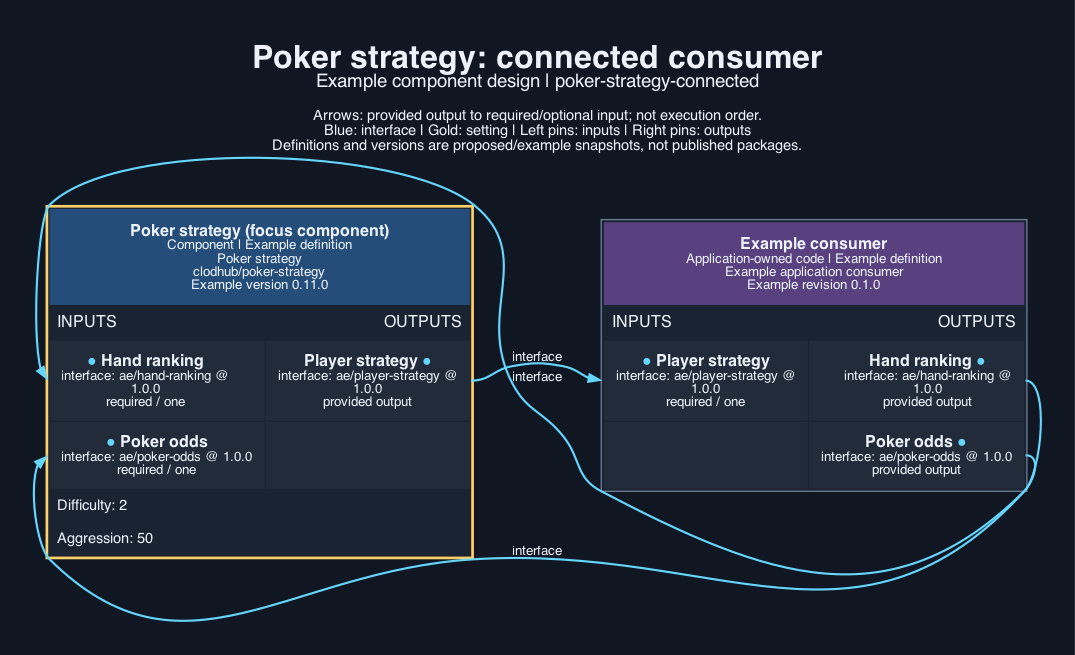
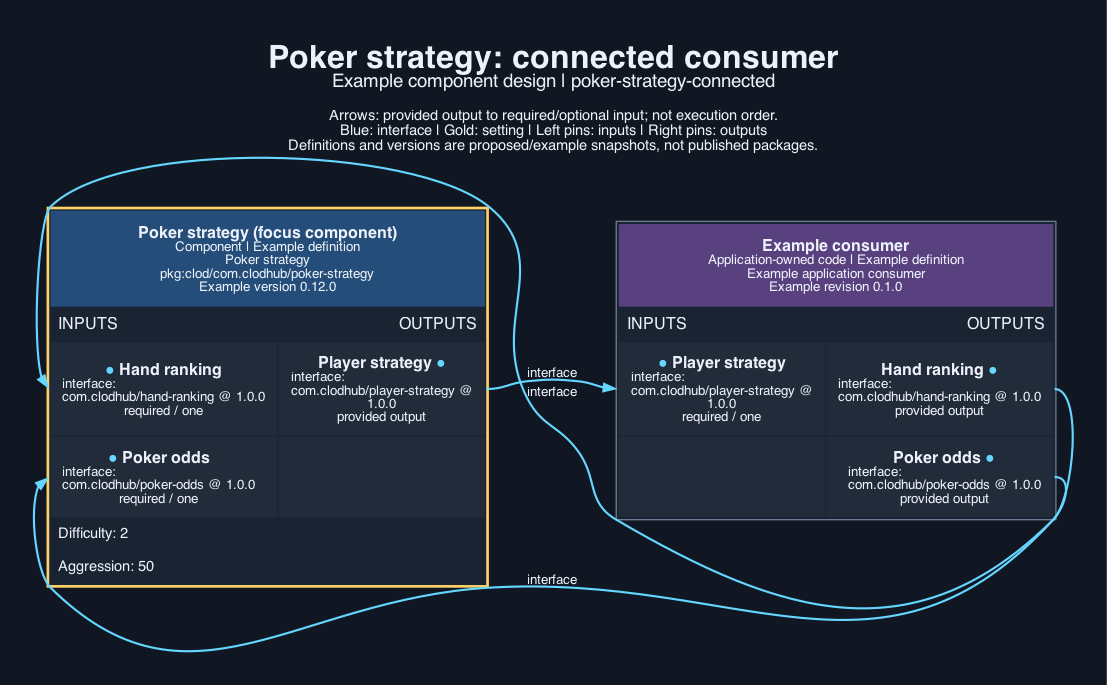
poker-strategy 0.12.0: package URL names, clod, com.clodhub interface types

diff --git a/tests/support/poker-odds/types.ts b/tests/support/poker-odds/types.ts
@@ -1,4 +1,4 @@
-// The part of the hand-ranking and card-deck interfaces that odds reads (ae/hand-ranking 1.0.0).
+// The part of the hand-ranking and card-deck interfaces that odds reads (com.clodhub/hand-ranking 1.0.0).
 export type Card = string;
 
 export type Evaluation = { score: number; category: string; ranks: number[]; name: string };

diff --git a/implementation/server/types.ts b/implementation/server/types.ts
@@ -1,4 +1,4 @@
-// The part of the poker-odds interface that strategy reads (ae/poker-odds 1.0.0).
+// The part of the poker-odds interface that strategy reads (com.clodhub/poker-odds 1.0.0).
 export type Card = string;
 
 export type OddsLike = {

diff --git a/INSTRUCTIONS.md b/INSTRUCTIONS.md
@@ -3,13 +3,13 @@
 ## For the agent
 Select this component when the recipe includes computer players. Connect its hand-ranking and poker-odds inputs, and connect its player-strategy output to computer-players. Map the recipe's 'computer players' difficulty answer to `difficulty` and a general 'how bold' answer to `aggression`.
 
-- Select package `clodhub/poker-strategy` version `0.11.0`.
+- Select package `pkg:clod/com.clodhub/poker-strategy` version `0.12.0`.
 - Settings to configure:
   - `difficulty` (integer; optional; default `2`)
   - `aggression` (integer; optional; default `50`)
-- Connect the provided `player-strategy` (ae/player-strategy 1.0.0) to the consumer that needs it.
-- Supply `hand-ranking` (ae/hand-ranking 1.0.0) from the component that provides it.
-- Supply `poker-odds` (ae/poker-odds 1.0.0) from the component that provides it.
+- Connect the provided `player-strategy` (com.clodhub/player-strategy 1.0.0) to the consumer that needs it.
+- Supply `hand-ranking` (com.clodhub/hand-ranking 1.0.0) from the component that provides it.
+- Supply `poker-odds` (com.clodhub/poker-odds 1.0.0) from the component that provides it.
 - No accounts or keys are needed.
 
 ## For the developer
@@ -19,4 +19,4 @@ No accounts or keys. `difficulty` is 1, 2 or 3 (default 2, the recipe's referenc
 From the component directory:
 
 - `node --test tests/server.test.ts` (web, required-local; tools: node 26.5)
-- `python3 -m aepm review <digest> --store STORE --policy POLICY --trusted --allow-network` checks an archive fetched with `python3 -m aepm fetch clodhub/poker-strategy@VERSION --store STORE --from https://clodhub.com` and runs its suites.
+- `python3 -m clod review <digest> --store STORE --policy POLICY --trusted --allow-network` checks an archive fetched with `python3 -m clod fetch poker-strategy@VERSION --store STORE --from https://clodhub.com` and runs its suites.

diff --git a/CONTRACT.md b/CONTRACT.md
@@ -22,11 +22,11 @@ Dependencies: none.
 `tools.lock.json` pins verification tools: node 26.5. Licence: `Apache-2.0` (`LICENCE`, `NOTICE`).
 
 ## Provided interfaces
-- `interfaces/player-strategy.json` defines `player-strategy` (ae/player-strategy) version 1.0.0: an OpenRPC 1.3.2 document, one method per function (a member of a created object is `<Type>.<member>`), with parameter, result and data types as JSON Schema 2020-12 (`components.schemas`) and thrown errors under `errors`.
+- `interfaces/player-strategy.json` defines `player-strategy` (com.clodhub/player-strategy) version 1.0.0: an OpenRPC 1.3.2 document, one method per function (a member of a created object is `<Type>.<member>`), with parameter, result and data types as JSON Schema 2020-12 (`components.schemas`) and thrown errors under `errors`.
 
 ## Required interfaces
-- `hand-ranking` (ae/hand-ranking) version 1.0.0, supplied by the recipe or application.
-- `poker-odds` (ae/poker-odds) version 1.0.0, supplied by the recipe or application.
+- `hand-ranking` (com.clodhub/hand-ranking) version 1.0.0, supplied by the recipe or application.
+- `poker-odds` (com.clodhub/poker-odds) version 1.0.0, supplied by the recipe or application.
 
 Each `interfaces/required-<id>.json` is a byte copy of the providing component's document.
 

diff --git a/visual/output/description.md b/visual/output/description.md
@@ -1,3 +1,3 @@
 # Poker strategy
 
-The poker-strategy component at version 0.11.0 provides ae/player-strategy version 1.0.0 to an illustrative application consumer, which in turn supplies ae/hand-ranking version 1.0.0 and ae/poker-odds version 1.0.0. The 3 arrows each run from a named output to a required input of the same type and version. Setting values shown are placeholders and secrets appear only as references.
+The poker-strategy component at version 0.12.0 provides com.clodhub/player-strategy version 1.0.0 to an illustrative application consumer, which in turn supplies com.clodhub/hand-ranking version 1.0.0 and com.clodhub/poker-odds version 1.0.0. The 3 arrows each run from a named output to a required input of the same type and version. Setting values shown are placeholders and secrets appear only as references.

diff --git a/.opencode/knowledge/workflow.md b/.opencode/knowledge/workflow.md
@@ -2,5 +2,5 @@
 
 Repository: `clodhub/poker-strategy`. Licence: `Apache-2.0` (`LICENCE`, `NOTICE`).
 Suite commands (from the package root): `node --test tests/server.test.ts`.
-Review a fetched archive: `python3 -m aepm review <digest> --store STORE --policy POLICY --trusted --allow-network`.
+Review a fetched archive: `python3 -m clod review <digest> --store STORE --policy POLICY --trusted --allow-network`.
 Always run Python with `-B`; never write bytecode into the repository.
